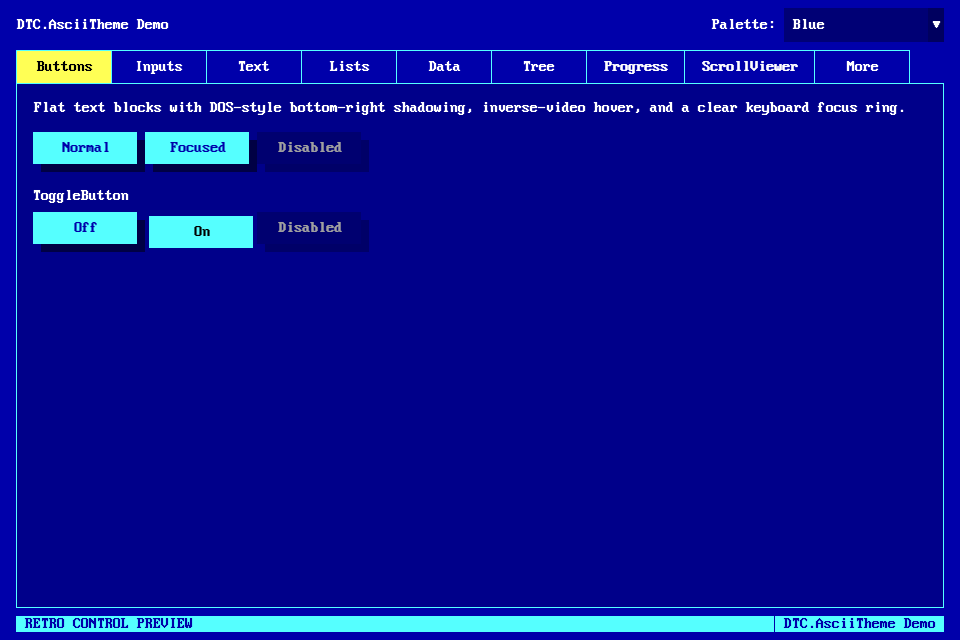
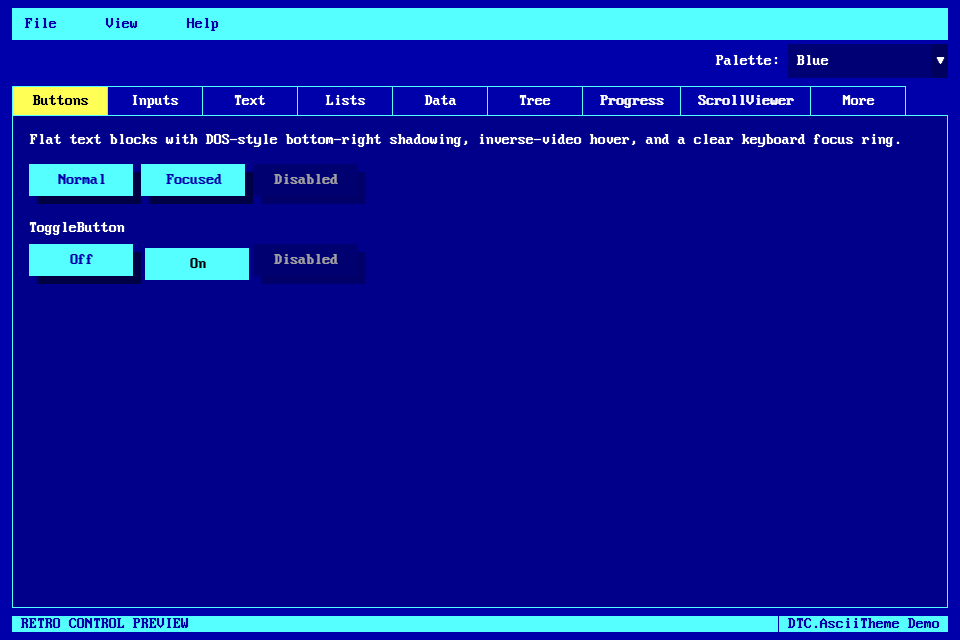
Feature: Update main menus and 'grey' theme.

Changed region(s): [[0.0, 0.0, 1.0, 1.0], [0.8125, 0.9688, 1.0, 1.0]]

diff --git a/samples/DTC.AsciiTheme.Demo/MainWindow.axaml.cs b/samples/DTC.AsciiTheme.Demo/MainWindow.axaml.cs
@@ -13,6 +13,7 @@ using Avalonia.Controls;
 using Avalonia.Input;
 using Avalonia.Threading;
 using Avalonia;
+using Avalonia.Interactivity;
 using DTC.AsciiTheme;
 
 namespace DTC.AsciiTheme.Demo;
@@ -99,6 +100,56 @@ public partial class MainWindow : Window
         MessageBoxResultTextBlock.Text = $"Last result: {result}";
     }
 
+    private async void HandleOpenMenuClick(object sender, RoutedEventArgs e)
+    {
+        await AsciiMessageBox.ShowAsync(
+            this,
+            "Open",
+            "File open support is coming once the dialog helper is in place.",
+            AsciiMessageBoxButtons.Ok);
+    }
+
+    private async void HandleSaveMenuClick(object sender, RoutedEventArgs e)
+    {
+        await AsciiMessageBox.ShowAsync(
+            this,
+            "Save",
+            "File save support is coming once the dialog helper is in place.",
+            AsciiMessageBoxButtons.Ok);
+    }
+
+    private void HandleExitMenuClick(object sender, RoutedEventArgs e)
+    {
+        Close();
+    }
+
+    private void HandleViewButtonsClick(object sender, RoutedEventArgs e) => SelectTab(0);
+
+    private void HandleViewInputsClick(object sender, RoutedEventArgs e) => SelectTab(1);
+
+    private void HandleViewTextClick(object sender, RoutedEventArgs e) => SelectTab(2);
+
+    private void HandleViewListsClick(object sender, RoutedEventArgs e) => SelectTab(3);
+
+    private void HandleViewDataClick(object sender, RoutedEventArgs e) => SelectTab(4);
+
+    private void HandleViewTreeClick(object sender, RoutedEventArgs e) => SelectTab(5);
+
+    private void HandleViewProgressClick(object sender, RoutedEventArgs e) => SelectTab(6);
+
+    private void HandleViewScrollViewerClick(object sender, RoutedEventArgs e) => SelectTab(7);
+
+    private void HandleViewMoreClick(object sender, RoutedEventArgs e) => SelectTab(8);
+
+    private async void HandleAboutMenuClick(object sender, RoutedEventArgs e)
+    {
+        await AsciiMessageBox.ShowAsync(
+            this,
+            "About",
+            "DTC.AsciiTheme\n\nA retro Avalonia theme and helper-control package by DeanTheCoder.\n\nGitHub:\nwww.github.com/deanthecoder/DTC.AsciiTheme",
+            AsciiMessageBoxButtons.Ok);
+    }
+
     private void HandlePaletteSelectionChanged(object sender, SelectionChangedEventArgs e)
     {
         if (Application.Current is null)
@@ -127,6 +178,11 @@ public partial class MainWindow : Window
         }
 
         AsciiPaletteManager.Apply(Application.Current, palette);
+    }
+
+    private void SelectTab(int index)
+    {
+        DemoTabControl.SelectedIndex = index;
     }
 
     private static IReadOnlyList<DemoFileRow> CreateFileRows()

diff --git a/src/DTC.AsciiTheme/AsciiPaletteManager.cs b/src/DTC.AsciiTheme/AsciiPaletteManager.cs
@@ -46,6 +46,7 @@ public static class AsciiPaletteManager
             AsciiPalette.Mono => "Mono.axaml",
             AsciiPalette.Green => "Green.axaml",
             AsciiPalette.Plasma => "Plasma.axaml",
+            AsciiPalette.Grey => "Grey.axaml",
             _ => throw new ArgumentOutOfRangeException(nameof(palette), palette, null),
         };
 

diff --git a/tests/DTC.AsciiTheme.Tests/DemoScreenshotTests.cs b/tests/DTC.AsciiTheme.Tests/DemoScreenshotTests.cs
@@ -80,6 +80,7 @@ public sealed class DemoScreenshotTests
                     "text-mono.png",
                     "text-green.png",
                     "text-plasma.png",
+                    "text-grey.png",
                 };
 
                 for (var paletteIndex = 0; paletteIndex < paletteFileNames.Length; paletteIndex++)

diff --git a/src/DTC.AsciiTheme/AsciiPalette.cs b/src/DTC.AsciiTheme/AsciiPalette.cs
@@ -17,4 +17,5 @@ public enum AsciiPalette
     Mono,
     Green,
     Plasma,
+    Grey,
 }

diff --git a/README.md b/README.md
@@ -52,7 +52,7 @@ Demonstrates shared `ScrollViewer`/`ScrollBar` styling with a dithered retro ima
 ![ScrollViewer tab screenshot](img/scrollviewer.png)
 
 ### More
-Demonstrates `Menu`, `AsciiMessageBox`, `Expander`, `Slider`, `ToolTip`, and the footer `AsciiStatusBar`.
+Demonstrates `AsciiMessageBox`, `Expander`, `Slider`, `ToolTip`, and the footer `AsciiStatusBar`. The demo app itself now uses the themed `Menu` at the top level for `File`, `View`, and `Help`.
 
 ![More tab screenshot](img/more.png)
 
@@ -117,6 +117,7 @@ The base theme ships with a blue DOS-style palette by default, and also includes
 - `avares://DTC.AsciiTheme/Palettes/Mono.axaml`
 - `avares://DTC.AsciiTheme/Palettes/Green.axaml`
 - `avares://DTC.AsciiTheme/Palettes/Plasma.axaml`
+- `avares://DTC.AsciiTheme/Palettes/Grey.axaml`
 
 Example:
 
@@ -148,6 +149,12 @@ The screenshots below all use the same `Text` tab content so the palette differe
 ### Plasma
 
 ![Plasma palette screenshot](img/text-plasma.png)
+
+### Grey
+
+Simple light-grey retro palette with black text and strong inverse/highlight states.
+
+![Grey palette screenshot](img/text-grey.png)
 
 ## Project layout
 - `src/DTC.AsciiTheme/` contains the reusable theme library.
